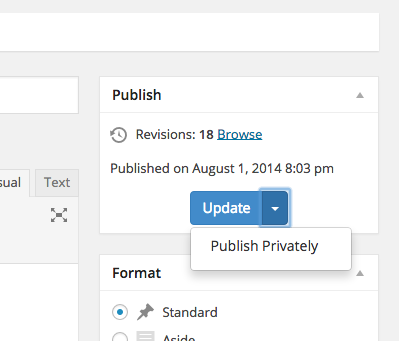
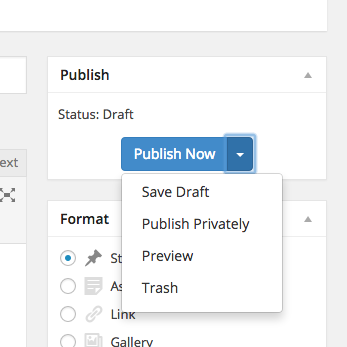
Remove bootstrap, better screenshot

diff --git a/plugin.php b/plugin.php
@@ -10,8 +10,8 @@ add_action( 'admin_enqueue_scripts', function() {
 	if ( ! in_array( $GLOBALS['hook_suffix'], $whitelisted_pages ) ) {
 		return;
 	}
-	// wp_enqueue_style( 'rad-publish-meta-box', plugins_url( 'includes/css/plugin.css', __FILE__ ) );
-	wp_enqueue_style( 'bootstrap', '//maxcdn.bootstrapcdn.com/bootstrap/3.2.0/css/bootstrap.min.css' );
+	wp_enqueue_style( 'rad-publish-meta-box', plugins_url( 'includes/css/plugin.css', __FILE__ ) );
+	// wp_enqueue_style( 'bootstrap', '//maxcdn.bootstrapcdn.com/bootstrap/3.2.0/css/bootstrap.min.css' );
 	wp_enqueue_script( 'bootstrap', '//maxcdn.bootstrapcdn.com/bootstrap/3.2.0/js/bootstrap.min.js', array( 'jquery' ) );
 
 	wp_register_script( 'jquery-simulate', plugins_url( 'includes/js/jquery.simulate.js', __FILE__ ), array( 'jquery' ) );
